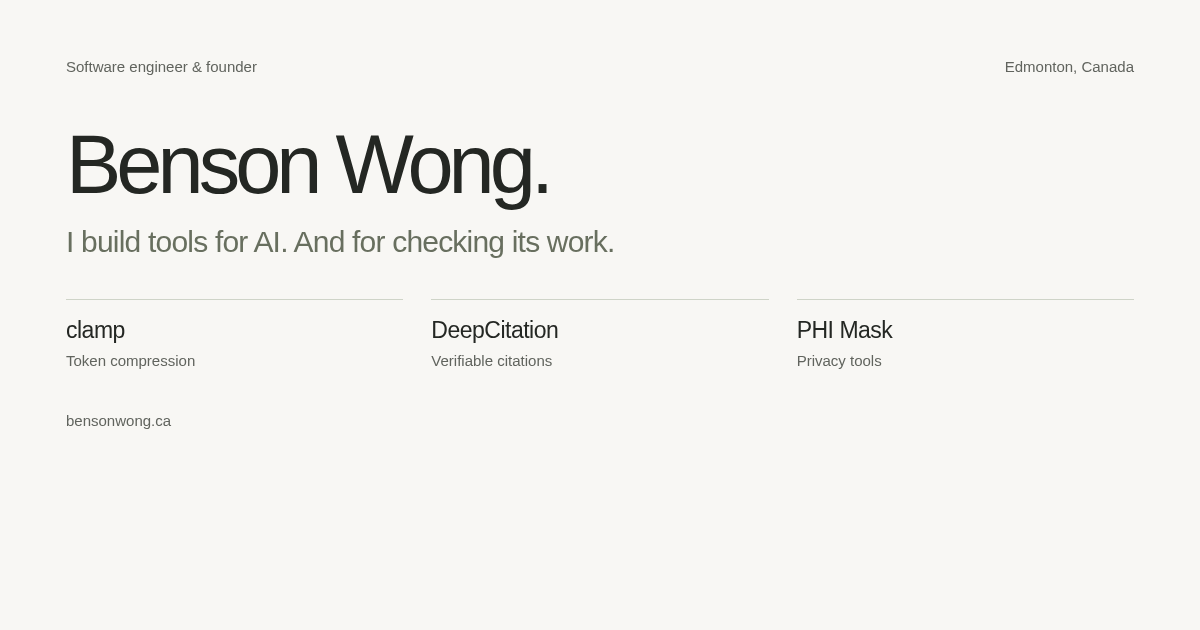
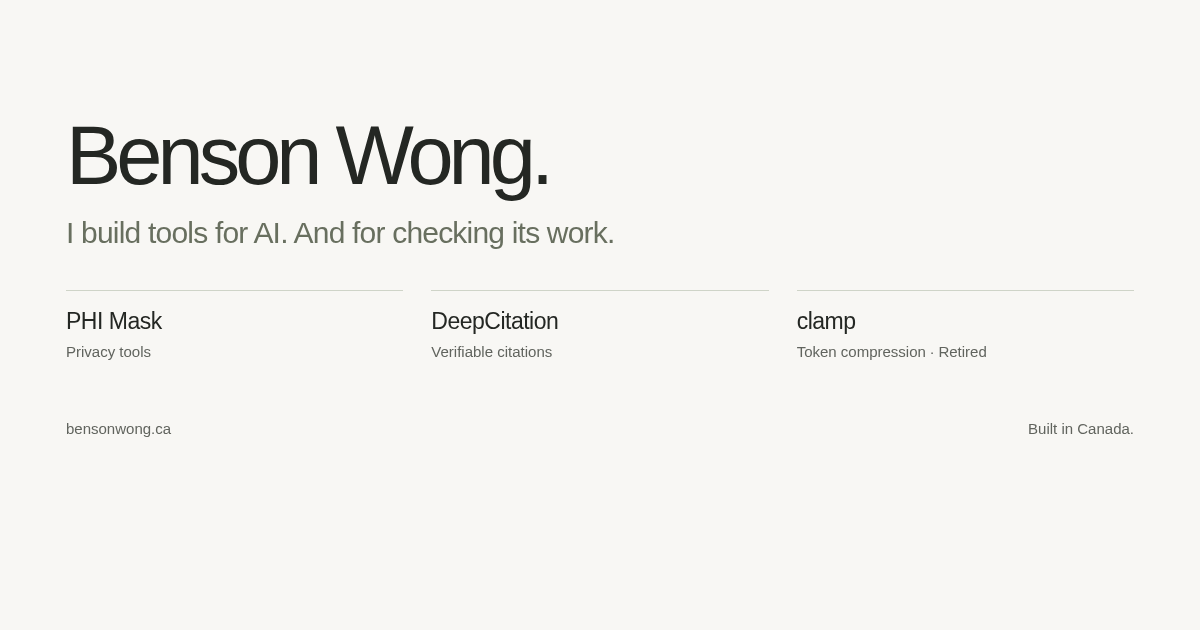
feat: lead portfolio with PHI Mask (portfolio-002)

diff --git a/index.html b/index.html
@@ -8,7 +8,7 @@
     <meta name="theme-color" content="#f8f7f4">
     <meta name="robots" content="index, follow">
     <title>Benson Wong | Software engineer &amp; founder</title>
-    <meta name="description" content="Software engineer and founder in Edmonton, Canada. Building tools for token compression, verifiable citations, and privacy. Previously founded Can I Pay Less, acquired by Ratehub.">
+    <meta name="description" content="Software engineer and founder in Edmonton, Canada. Building PHI Mask and DeepCitation. Previously founded Can I Pay Less, acquired by Ratehub.">
     <link rel="canonical" href="https://bensonwong.ca/">
     <meta property="og:type" content="profile">
     <meta property="og:site_name" content="Benson Wong">
@@ -18,14 +18,14 @@
     <meta property="og:image" content="https://bensonwong.ca/og-image.png">
     <meta property="og:image:width" content="1200">
     <meta property="og:image:height" content="630">
-    <meta property="og:image:alt" content="Benson Wong. Software engineer and founder. Selected work in token compression, citations, and privacy.">
+    <meta property="og:image:alt" content="Benson Wong. Selected work: PHI Mask, DeepCitation, and the retired Clamp project. Built in Canada.">
     <meta property="profile:first_name" content="Benson">
     <meta property="profile:last_name" content="Wong">
     <meta name="twitter:card" content="summary_large_image">
     <meta name="twitter:title" content="Benson Wong | Software engineer &amp; founder">
     <meta name="twitter:description" content="An engineer and founder building tools for working with AI and checking its work.">
     <meta name="twitter:image" content="https://bensonwong.ca/og-image.png">
-    <meta name="twitter:image:alt" content="Benson Wong. Software engineer and founder. Selected work in token compression, citations, and privacy.">
+    <meta name="twitter:image:alt" content="Benson Wong. Selected work: PHI Mask, DeepCitation, and the retired Clamp project. Built in Canada.">
     <link rel="icon" href="/favicon.svg" type="image/svg+xml">
     <link rel="apple-touch-icon" sizes="180x180" href="/apple-touch-icon.png">
     <link rel="preload" href="/assets/fonts/inter-latin.woff2" as="font" type="font/woff2" crossorigin>
@@ -58,13 +58,12 @@
       <main id="main">
         <section class="intro-grid" aria-labelledby="page-title">
           <div class="intro-main">
-            <p class="eyebrow">Software engineer &amp; founder</p>
             <h1 id="page-title">I build tools for AI.<br><span>And for checking<br class="desktop-break"> its work.</span></h1>
             <p class="intro-copy">I'm Benson, an engineer in Edmonton, Canada. I build products, dig into the systems behind them, and follow the evidence when something doesn't add up.</p>
             <a class="text-link intro-link" href="#work">Explore selected work <span aria-hidden="true">↓</span></a>
           </div>
           <aside class="career" aria-labelledby="career-title">
-            <h2 class="eyebrow" id="career-title">A few chapters</h2>
+            <h2 class="sr-only" id="career-title">Experience</h2>
             <ol class="career-list">
               <li><span class="career-date">Now</span><div><strong>Independent builder</strong><span>AI tools &amp; systems research</span></div></li>
               <li><span class="career-date">2024</span><div><strong>FileLasso</strong><span>Co-founder &amp; software engineer</span></div></li>
@@ -78,24 +77,22 @@
         <section class="work-section" id="work" aria-labelledby="work-title">
           <header class="section-heading">
             <h2 id="work-title">Selected work<span class="section-count" aria-hidden="true"> / 03</span></h2>
-            <button class="motion-toggle" id="motion-toggle" type="button" aria-controls="clamp-film deepcitation-film phimask-film" hidden><span class="motion-icon" aria-hidden="true">Ⅱ</span><span data-motion-label>Pause motion</span></button>
+            <button class="motion-toggle" id="motion-toggle" type="button" aria-controls="phimask-film deepcitation-film clamp-film" hidden><span class="motion-icon" aria-hidden="true">Ⅱ</span><span data-motion-label>Pause motion</span></button>
           </header>
           <div class="project-grid">
-            <article class="project project--featured" aria-labelledby="clamp-title">
-              <div class="project-stage project-stage--clamp">
-                <div class="stage-heading" aria-hidden="true"><span>[clamp]</span><span>Context, compressed.</span></div>
-                <div class="film-frame film-frame--clamp">
-                  <img class="film-poster" src="/assets/work/clamp-poster.webp" width="816" height="332" alt="" fetchpriority="high">
-                  <video class="project-film" id="clamp-film" muted loop playsinline preload="none" poster="/assets/work/clamp-poster.webp" aria-hidden="true"><source data-src="/assets/work/clamp.mp4" type="video/mp4"></video>
+            <article class="project project--featured" aria-labelledby="phimask-title">
+              <div class="project-stage project-stage--phimask">
+                <div class="film-frame film-frame--phimask">
+                  <img class="film-poster" src="/assets/work/phimask-poster.webp" width="1440" height="810" alt="" fetchpriority="high">
+                  <video class="project-film" id="phimask-film" muted loop playsinline preload="none" poster="/assets/work/phimask-poster.webp" aria-hidden="true"><source data-src="/assets/work/phimask.mp4" type="video/mp4"></video>
                 </div>
-                <span class="stage-footnote" aria-hidden="true">Tokenization example</span>
               </div>
               <div class="project-caption">
-                <div><h3 id="clamp-title">clamp</h3><p>Save tokens before the model sees them.</p></div>
-                <span class="project-type">Developer tooling</span>
+                <div><h3 id="phimask-title"><a href="https://phimask.com/">PHI Mask <span aria-hidden="true">↗</span></a></h3><p>Keep private details out of the prompt.</p></div>
+                <span class="project-type">Chrome extension</span>
               </div>
-              <div class="project-detail"><p>Reversible context compression with inspectable savings. My work here combines Rust development with token-accounting research.</p><div class="project-actions"><a class="text-link" href="/assets/work/clamp.mp4">Watch full-size demo <span aria-hidden="true">↗</span></a><a class="text-link" href="#contact">Ask me about clamp <span aria-hidden="true">↗</span></a></div></div>
-              <p class="sr-only">The animation shows repeated context becoming a shorter representation. This is a demonstration, not a production savings measurement.</p>
+              <div class="project-detail"><p>I build the TypeScript extension and browser workflow for masking names, dates, and identifiers while keeping a document's useful content readable.</p><div class="project-actions"><a class="text-link" href="https://chromewebstore.google.com/detail/phi-mask-data-privacy-mas/kcmpppojpihbagegmplldklbpfagodge">Try the Chrome extension <span aria-hidden="true">↗</span></a><a class="text-link" href="/assets/work/phimask.mp4">Watch full-size demo <span aria-hidden="true">↗</span></a></div></div>
+              <p class="sr-only">The demonstration masks identifiers in a fictional medical record while keeping the lab results visible.</p>
             </article>
             <article class="project" aria-labelledby="deepcitation-title">
               <div class="project-stage project-stage--citation">
@@ -111,43 +108,43 @@
               <div class="project-detail"><p>I build the SDK and the interfaces for checking model citations against source documents and inspecting the supporting passages.</p><div class="project-actions"><a class="text-link" href="https://github.com/DeepCitation/deepcitation">Explore the code <span aria-hidden="true">↗</span></a><a class="text-link" href="/assets/work/deepcitation.mp4">Watch full-size demo <span aria-hidden="true">↗</span></a></div></div>
               <p class="sr-only">The demonstration follows a citation from a model response to the matching passage in a source document.</p>
             </article>
-            <article class="project" aria-labelledby="phimask-title">
-              <div class="project-stage project-stage--phimask">
-                <div class="film-frame film-frame--phimask">
-                  <img class="film-poster" src="/assets/work/phimask-poster.webp" width="1440" height="810" alt="" loading="lazy">
-                  <video class="project-film" id="phimask-film" muted loop playsinline preload="none" poster="/assets/work/phimask-poster.webp" aria-hidden="true"><source data-src="/assets/work/phimask.mp4" type="video/mp4"></video>
+            <article class="project" aria-labelledby="clamp-title">
+              <div class="project-stage project-stage--clamp">
+                <div class="film-frame film-frame--clamp">
+                  <img class="film-poster" src="/assets/work/clamp-poster.webp" width="816" height="332" alt="" loading="lazy">
+                  <video class="project-film" id="clamp-film" muted loop playsinline preload="none" poster="/assets/work/clamp-poster.webp" aria-hidden="true"><source data-src="/assets/work/clamp.mp4" type="video/mp4"></video>
                 </div>
+                <span class="stage-footnote" aria-hidden="true">Tokenization example</span>
               </div>
               <div class="project-caption">
-                <div><h3 id="phimask-title"><a href="https://phimask.com/">PHI Mask <span aria-hidden="true">↗</span></a></h3><p>Keep private details out of the prompt.</p></div>
-                <span class="project-type">Privacy tool</span>
+                <div><h3 id="clamp-title">clamp</h3><p>Token compression, and why I stopped.</p></div>
+                <span class="project-type">Retired project</span>
               </div>
-              <div class="project-detail"><p>I build the TypeScript extension and browser workflow for masking names, dates, and identifiers while keeping a document's useful content readable.</p><div class="project-actions"><a class="text-link" href="https://phimask.com/">Try PHI Mask <span aria-hidden="true">↗</span></a><a class="text-link" href="/assets/work/phimask.mp4">Watch full-size demo <span aria-hidden="true">↗</span></a></div></div>
-              <p class="sr-only">The demonstration masks identifiers in a fictional medical record while keeping the lab results visible.</p>
+              <div class="project-detail"><p>I built Clamp in Rust, then moved it to a TypeScript Chrome extension. I decided to shut it down after discovering a savings-accounting flaw in RTK and publishing the reproduction.</p><p>As of <time datetime="2026-09-11">September 11, 2026</time>, RTK's founders are working on the issue.</p><div class="project-actions"><a class="text-link" href="https://github.com/rtk-ai/rtk/issues/2805">Read the report &amp; discussion <span aria-hidden="true">↗</span></a><a class="text-link" href="/assets/work/clamp.mp4">Watch archived demo <span aria-hidden="true">↗</span></a></div></div>
+              <p class="sr-only">The archived animation shows repeated context becoming a shorter representation. This is a demonstration, not a production savings measurement.</p>
             </article>
           </div>
         </section>
 
         <section class="research-section" id="research" aria-labelledby="research-title">
-          <div class="section-intro"><p class="eyebrow">Investigation</p><h2 id="research-title">The numbers should<br>hold up.</h2><p>I also investigate security, performance, and the gap between what a system reports and what it actually does.</p></div>
+          <div class="section-intro"><h2 id="research-title">The numbers should<br>hold up.</h2><p>I also investigate security, performance, and the gap between what a system reports and what it actually does.</p></div>
           <div class="research-list">
-            <a class="research-row" href="https://github.com/rtk-ai/rtk/issues/2805"><span class="research-category">Measurement</span><div><h3>Auditing token savings <span aria-hidden="true">↗</span></h3><p>Published a reproduction of a savings-accounting error exceeding 10,000× in one case. Traced the result to the wrong baseline.</p></div><span class="research-status">Public report</span></a>
+            <a class="research-row" href="https://github.com/rtk-ai/rtk/issues/2805"><span class="research-category">AI audit</span><div><h3>RTK <span aria-hidden="true">↗</span></h3><p>Found a <strong>&gt;10,000×</strong> savings overstatement in a <strong>70,000-star</strong> AI tool by tracing its code, token flow and accounting.</p></div><span class="research-status">Public report</span></a>
             <div class="research-row"><span class="research-category">Performance</span><div><h3>PostHog SDK</h3><p>Found a regex bug whose fix made affected page loads about 10 seconds faster.</p></div><span class="research-status">Awarded</span></div>
             <div class="research-row"><span class="research-category">Security</span><div><h3>Tesla</h3><p>Reported a payment-flow flaw involving a declined upgrade.</p></div><span class="research-status">Awarded</span></div>
-            <div class="research-row"><span class="research-category">Model limits</span><div><h3>Gemini</h3><p>Reported a prompt exploit that bypassed token caps.</p></div><span class="research-status">Reported &amp; fixed</span></div>
+            <div class="research-row"><span class="research-category">Model limits</span><div><h3>Gemini</h3><p><strong>2.5B-token</strong> prompt exploit bypassed token caps; reported &amp; fixed.</p></div><span class="research-status">Thanked</span></div>
           </div>
         </section>
         <section class="about-section" id="about" aria-labelledby="about-title">
-          <div><p class="eyebrow">A little context</p><h2 id="about-title">An engineer<br>with a founder's view.</h2></div>
-          <div class="about-copy"><p>I founded Can I Pay Less, a credit-card rewards comparison business acquired by Ratehub. There, I worked on PostgreSQL/PostGIS indexing and bottlenecks as the site grew to millions of monthly visitors.</p><p>At Portia International, I led four developers modernizing a healthcare platform used by thousands of people. At Adaptive Pulse, I managed a team of seven.</p><p>I later co-founded Perkify and FileLasso with business and product partners. Today I work independently on document workflows, citation verification, token compression, and privacy.</p><p>I'm also an angel investor and a former board director and Finance Committee member of the Queensway Carleton Hospital Foundation.</p><div class="about-links"><a class="text-link" href="https://filelasso.com/">FileLasso <span aria-hidden="true">↗</span></a><a class="text-link" href="https://www.ratehub.ca/blog/looking-back-at-2014/">The Ratehub chapter <span aria-hidden="true">↗</span></a></div></div>
+          <div><h2 id="about-title">An engineer<br>with a founder's view.</h2></div>
+          <div class="about-copy"><p>I founded Can I Pay Less, a credit-card rewards comparison business acquired by Ratehub. There, I worked on PostgreSQL/PostGIS indexing and bottlenecks as the site grew to millions of monthly visitors.</p><p>At Portia International, I led four developers modernizing a healthcare platform used by thousands of special needs educators. At Adaptive Pulse, I managed a team of seven.</p><p>I co-founded Perkify with <a href="https://www.rinkventures.com/">Alexander Rink</a>, a startup founder and investor. I later co-founded FileLasso with <a href="https://www.linkedin.com/in/kristincarr">Kristin Condit</a>, a product leader who spent 15 years at Microsoft. Today I work independently on document workflows, citation verification, and privacy.</p><p>I'm also an angel investor and a former board director and Finance Committee member of the Queensway Carleton Hospital Foundation.</p><div class="about-links"><a class="text-link" href="https://filelasso.com/">FileLasso <span aria-hidden="true">↗</span></a><a class="text-link" href="https://www.ratehub.ca/blog/looking-back-at-2014/">The Ratehub chapter <span aria-hidden="true">↗</span></a></div></div>
         </section>
         <section class="contact-section" id="contact" aria-labelledby="contact-title">
-          <p class="eyebrow">Engineering, products, or a good hard problem</p>
           <h2 id="contact-title">Let's talk.</h2>
           <div class="contact-links"><a href="https://www.linkedin.com/in/bensonwong/">Connect on LinkedIn <span aria-hidden="true">↗</span></a><a href="https://github.com/bensonwong">GitHub <span aria-hidden="true">↗</span></a><a href="https://filelasso.com/contact?subject=sales">Discuss a project <span aria-hidden="true">↗</span></a></div>
         </section>
       </main>
-      <footer class="site-footer"><span>Benson Wong</span><span>Built in Edmonton, Canada.</span><a href="#main">Back to top <span aria-hidden="true">↑</span></a></footer>
+      <footer class="site-footer"><span>Benson Wong</span><span>Built in Canada.</span><a href="#main">Back to top <span aria-hidden="true">↑</span></a></footer>
     </div>
   </body>
 </html>

diff --git a/styles.css b/styles.css
@@ -36,7 +36,6 @@ a:focus-visible, button:focus-visible { outline: 3px solid var(--accent); outlin
 .header-nav a { padding-block: 12px; text-decoration: none; }
 .header-nav a:hover { text-decoration: underline; }
 .intro-grid { display: grid; grid-template-columns: minmax(0, 1fr) 310px; gap: 60px; padding: 36px 0 56px; align-items: center; }
-.eyebrow { margin: 0 0 25px; font-size: 10px; line-height: 1.5; text-transform: uppercase; letter-spacing: .14em; font-weight: 550; color: var(--body); }
 h1 { margin: 0; font-size: clamp(44px, 4.6vw, 66px); font-weight: 480; letter-spacing: -.055em; line-height: 1.07; }
 .desktop-break { display: none; }
 h1 > span { color: #727966; }
@@ -45,7 +44,6 @@ h1 > span { color: #727966; }
 .text-link:hover { border-color: var(--ink); }
 .intro-link { margin-top: 22px; }
 .career { padding-top: 14px; }
-.career > h2 { margin-bottom: 26px; }
 .career-list { list-style: none; padding: 0; margin: 0; display: grid; gap: 25px; }
 .career-list li { display: grid; grid-template-columns: 65px minmax(0, 1fr); gap: 18px; }
 .career-date { color: var(--muted); font-family: ui-monospace, "SFMono-Regular", Consolas, monospace; font-size: 10px; padding-top: 2px; }
@@ -62,12 +60,12 @@ h1 > span { color: #727966; }
 .project { min-width: 0; }
 .project--featured { grid-column: 1 / -1; }
 .project-stage { position: relative; display: grid; align-items: center; justify-items: center; min-width: 0; overflow: hidden; aspect-ratio: 1.4; border: 1px solid #e3e2dc; }
-.project-stage--clamp { aspect-ratio: 2.6; padding: 54px 80px 46px; background: #eef0e9; }
-.stage-heading { position: absolute; top: 27px; left: 30px; right: 30px; display: flex; justify-content: space-between; color: #626957; font-size: 10px; }
-.stage-heading > :first-child { color: #242723; font-size: 15px; font-family: Georgia, serif; }
+.project-stage--clamp { padding: 36px 26px; background: #eef0e9; }
 .stage-footnote { position: absolute; bottom: 23px; font-size: 9px; letter-spacing: .04em; color: #626957; }
 .project-stage--citation { background: #eceef2; padding: 26px; }
 .project-stage--phimask { background: #f1e7e8; padding: 20px; }
+.project--featured .project-stage--phimask { aspect-ratio: auto; padding: 32px; }
+.project--featured .film-frame--phimask { max-width: 1060px; }
 .film-frame { position: relative; width: 100%; overflow: hidden; line-height: 0; }
 .film-frame--clamp { max-width: 890px; aspect-ratio: 816 / 332; }
 .film-frame--citation { aspect-ratio: 720 / 516; box-shadow: 0 12px 36px #26304712; }
@@ -105,7 +103,6 @@ a.research-row:hover h3 { text-decoration: underline; text-underline-offset: 4px
 .about-copy p:first-child { color: var(--ink); }
 .about-links { display: flex; flex-wrap: wrap; gap: 28px; margin-top: 28px; }
 .contact-section { padding: 62px 0 68px; border-top: 1px solid var(--line); }
-.contact-section .eyebrow { margin-bottom: 17px; }
 .contact-section h2 { margin: 0; font-size: clamp(60px, 8vw, 110px); font-weight: 420; letter-spacing: -.075em; line-height: 1.2; }
 .contact-links { display: flex; gap: 32px; flex-wrap: wrap; margin-top: 27px; font-size: 12px; }
 .contact-links a { text-decoration: none; padding-block: 8px; }
@@ -116,9 +113,8 @@ a.research-row:hover h3 { text-decoration: underline; text-underline-offset: 4px
 .error-page { display: grid; min-height: 100vh; place-items: center; padding: 24px; }
 .error-card { width: min(460px, 100%); }
 .error-card .monogram { margin-bottom: 45px; }
-.error-card .eyebrow { margin-bottom: 15px; }
 .error-card h1 { font-size: 48px; }
-.error-card > p:not(.eyebrow) { color: var(--body); line-height: 1.8; }
+.error-card > p { color: var(--body); line-height: 1.8; }
 .button { display: inline-block; margin-top: 15px; padding: 13px 20px; color: var(--page); background: var(--ink); text-decoration: none; font-size: 13px; }
 
 @media (min-width: 1500px) { .intro-grid { padding-block: 50px 70px; } }
@@ -140,11 +136,9 @@ a.research-row:hover h3 { text-decoration: underline; text-underline-offset: 4px
   .intro-grid { grid-template-columns: 1fr; gap: 32px; padding-block: 30px 38px; }
   h1 { font-size: clamp(42px, 7.8vw, 58px); }
   .desktop-break { display: none; }
-  .eyebrow { margin-bottom: 20px; }
   .intro-copy { font-size: 14px; }
-  .career { padding-top: 0; border-top: 1px solid var(--line); }
+  .career { padding-top: 22px; border-top: 1px solid var(--line); }
   .work-section + .career { margin-top: 56px; padding-bottom: 5px; }
-  .career > h2 { margin-block: 22px; }
   .career-list { grid-template-columns: minmax(0, 1fr) minmax(0, 1fr); gap: 23px 16px; }
   .career-list li { grid-template-columns: 1fr; gap: 6px; }
   .career-list li:first-child { grid-column: 1 / -1; }
@@ -153,10 +147,10 @@ a.research-row:hover h3 { text-decoration: underline; text-underline-offset: 4px
   .project-grid { grid-template-columns: 1fr; gap: 40px; }
   .project--featured { grid-column: auto; }
   .project-stage--clamp { aspect-ratio: 1.5; padding: 50px 18px 36px; }
-  .stage-heading { top: 20px; left: 20px; right: 20px; font-size: 9px; }
   .stage-footnote { bottom: 18px; font-size: 8px; }
   .project-stage--citation { padding: 25px; }
   .project-stage--phimask { aspect-ratio: 1.5; padding: 12px; }
+  .project--featured .project-stage--phimask { padding: 12px; }
   .project-caption { padding-top: 17px; }
   .project-caption h3 { font-size: 18px; }
   .project-caption p { font-size: 12px; }
@@ -168,7 +162,6 @@ a.research-row:hover h3 { text-decoration: underline; text-underline-offset: 4px
   .research-status { grid-column: auto; font-size: 8px; }
   .about-copy p { font-size: 13px; }
   .contact-section { padding-block: 48px; }
-  .contact-section .eyebrow { font-size: 9px; max-width: 240px; }
   .contact-links { gap: 15px 25px; font-size: 11px; }
   .site-footer { flex-wrap: wrap; gap: 16px; font-size: 9px; }
 }

diff --git a/404.html b/404.html
@@ -13,7 +13,6 @@
   <body class="error-page">
     <main class="error-card">
       <a class="monogram" href="/" aria-label="Benson Wong, home">bw.</a>
-      <p class="eyebrow">404 · Page not found</p>
       <h1>This page isn't here.</h1>
       <p>Return to the portfolio to see my work.</p>
       <a class="button button--primary" href="/">Return home</a>

diff --git a/tracker/portfolio-002.md b/tracker/portfolio-002.md
@@ -1,0 +1,52 @@
+# Portfolio 002: Lead with PHI Mask
+
+Status: complete
+
+## Owner direction
+
+Lead with PHI Mask and link to its Chrome Web Store listing so visitors can
+evaluate the extension. Preserve the original Gemini and RTK research copy,
+remove eyebrow labels, and keep the Canada footer. Explain the decision to
+shut down Clamp after the RTK savings-accounting investigation.
+
+No new visual surfaces. Reuse the three existing project cards and films.
+PHI Mask gets the featured position; Clamp becomes past work.
+
+## Evidence and copy decisions
+
+- The owner supplied the extension's direct install-listing URL.
+- The original Gemini and RTK copy comes from `dcd4072:index.html`. The RTK
+  star count describes the tool at the time of the investigation, not a live count.
+- [RTK issue 2805](https://github.com/rtk-ai/rtk/issues/2805) and its comments
+  were read on 2026-09-11. The issue is open. The owner's correction preserves
+  the >10,000× reproduction and retracts the smaller claimed compression win.
+- The shutdown decision and the founders' current work on the issue are from
+  the owner's account on 2026-09-11. The public comments retrieved do not
+  independently establish that work. Date the status and do not call it fixed.
+- About includes one short credential per co-founder. Kristin's 15 Microsoft
+  years and product leadership are owner-supplied; the owner confirmed her
+  prior name, Kristin Carr, matching the linked profile. Alex's investing
+  background is supported by his own site, https://www.rinkventures.com/,
+  read on 2026-09-11. No spouse credentials or endorsements are implied.
+- Remove Clamp from descriptions of current work. Keep its historical Rust
+  work and archived animation, with no offer to try a retired product.
+- Use the owner's exact Portia audience, "thousands of special needs
+  educators", on the site and in the private resume. The private resume also
+  leads with PHI Mask and records Clamp as retired.
+
+## Validation
+
+Completed 2026-09-11:
+
+- `bun run validate` passed.
+- 48 layout/content checks passed at 1440, 1280, 768, 760, 390, and 320 pixels.
+  PHI Mask appears first and begins within the first screen at each width.
+- A combined browser pass timed out starting playback after the reduced-motion
+  contexts. A fresh pass verified autoplay, pause, resume, offscreen pause,
+  and live reduced motion. All five playback checks passed; no motion code changed.
+- Desktop and phone screenshots and the refreshed social image were inspected.
+- The offline PDF regenerated as two pages. Both pages were inspected; the
+  collaboration end month and Portia audience are corrected. PDF, DOCX,
+  Markdown, and exact-date notes remain ignored and private.
+
+No publishing or remote changes are authorized in this pass.
